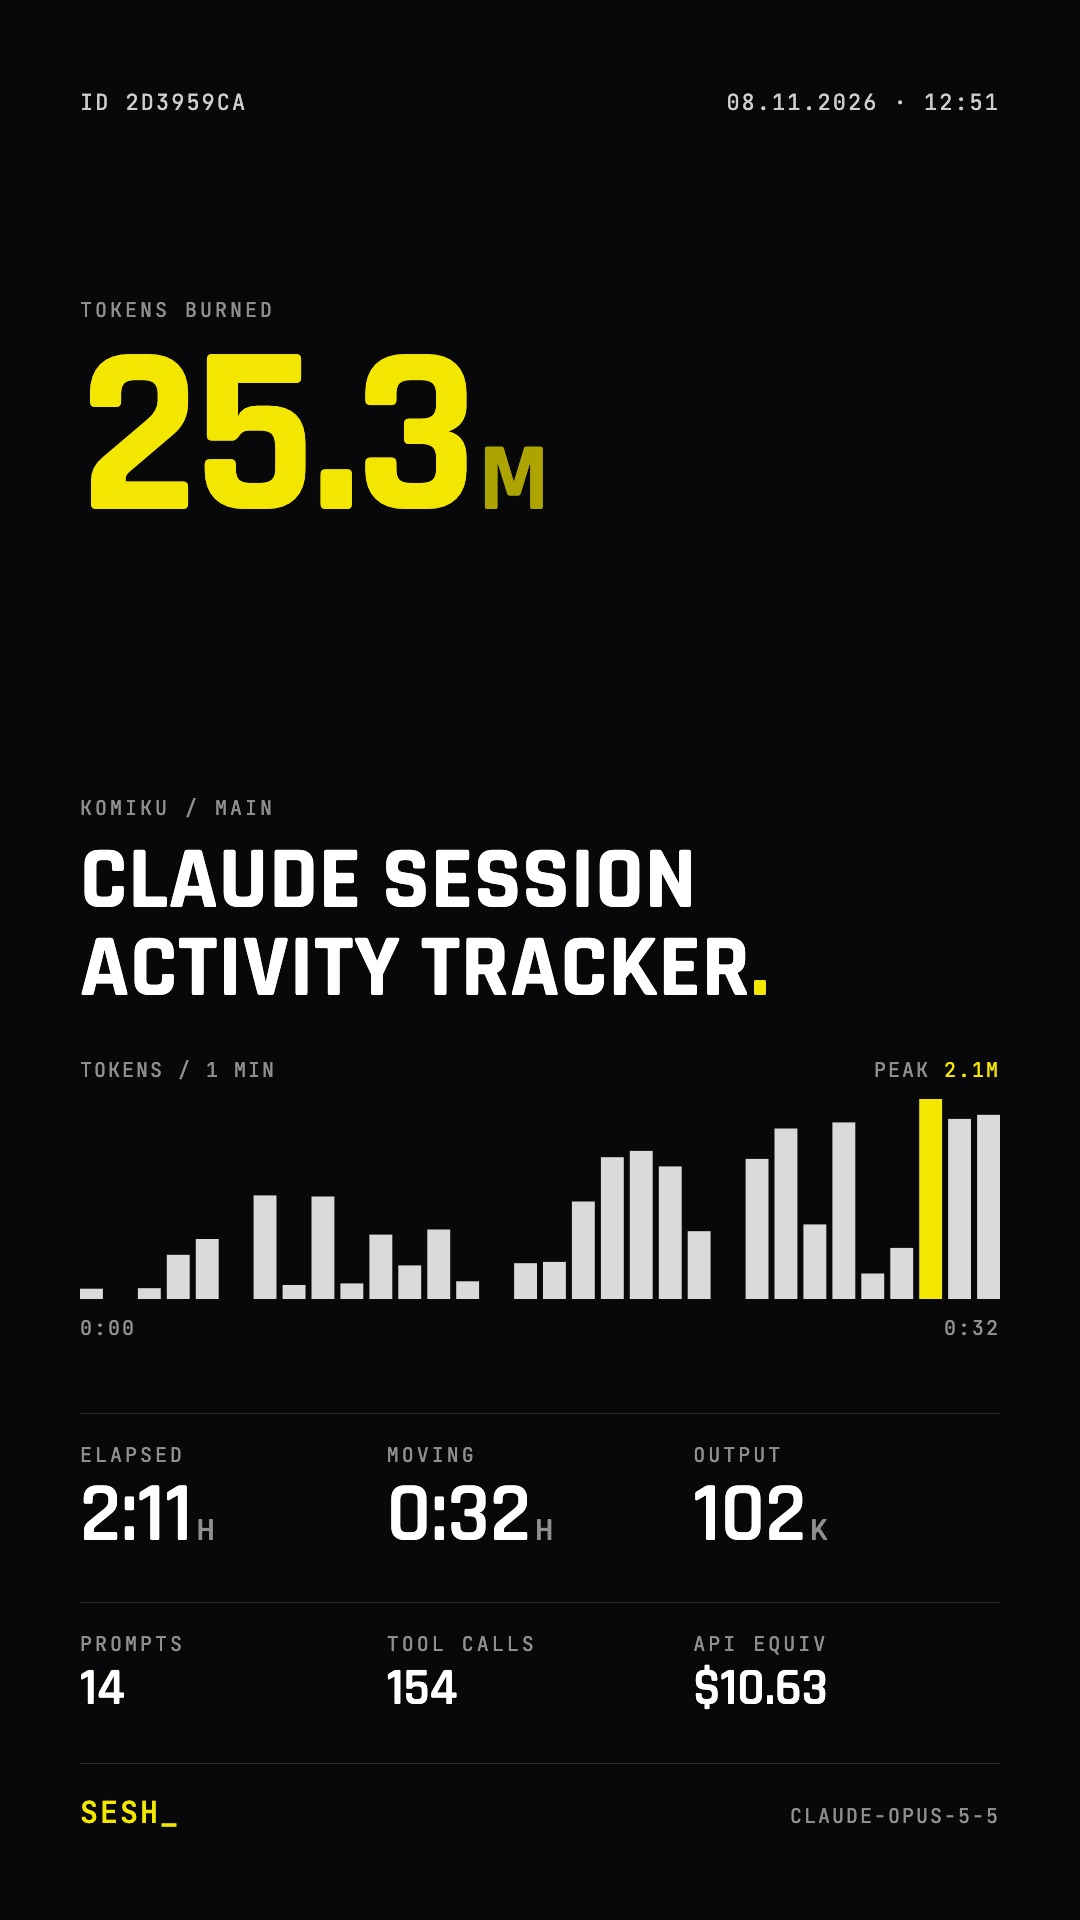
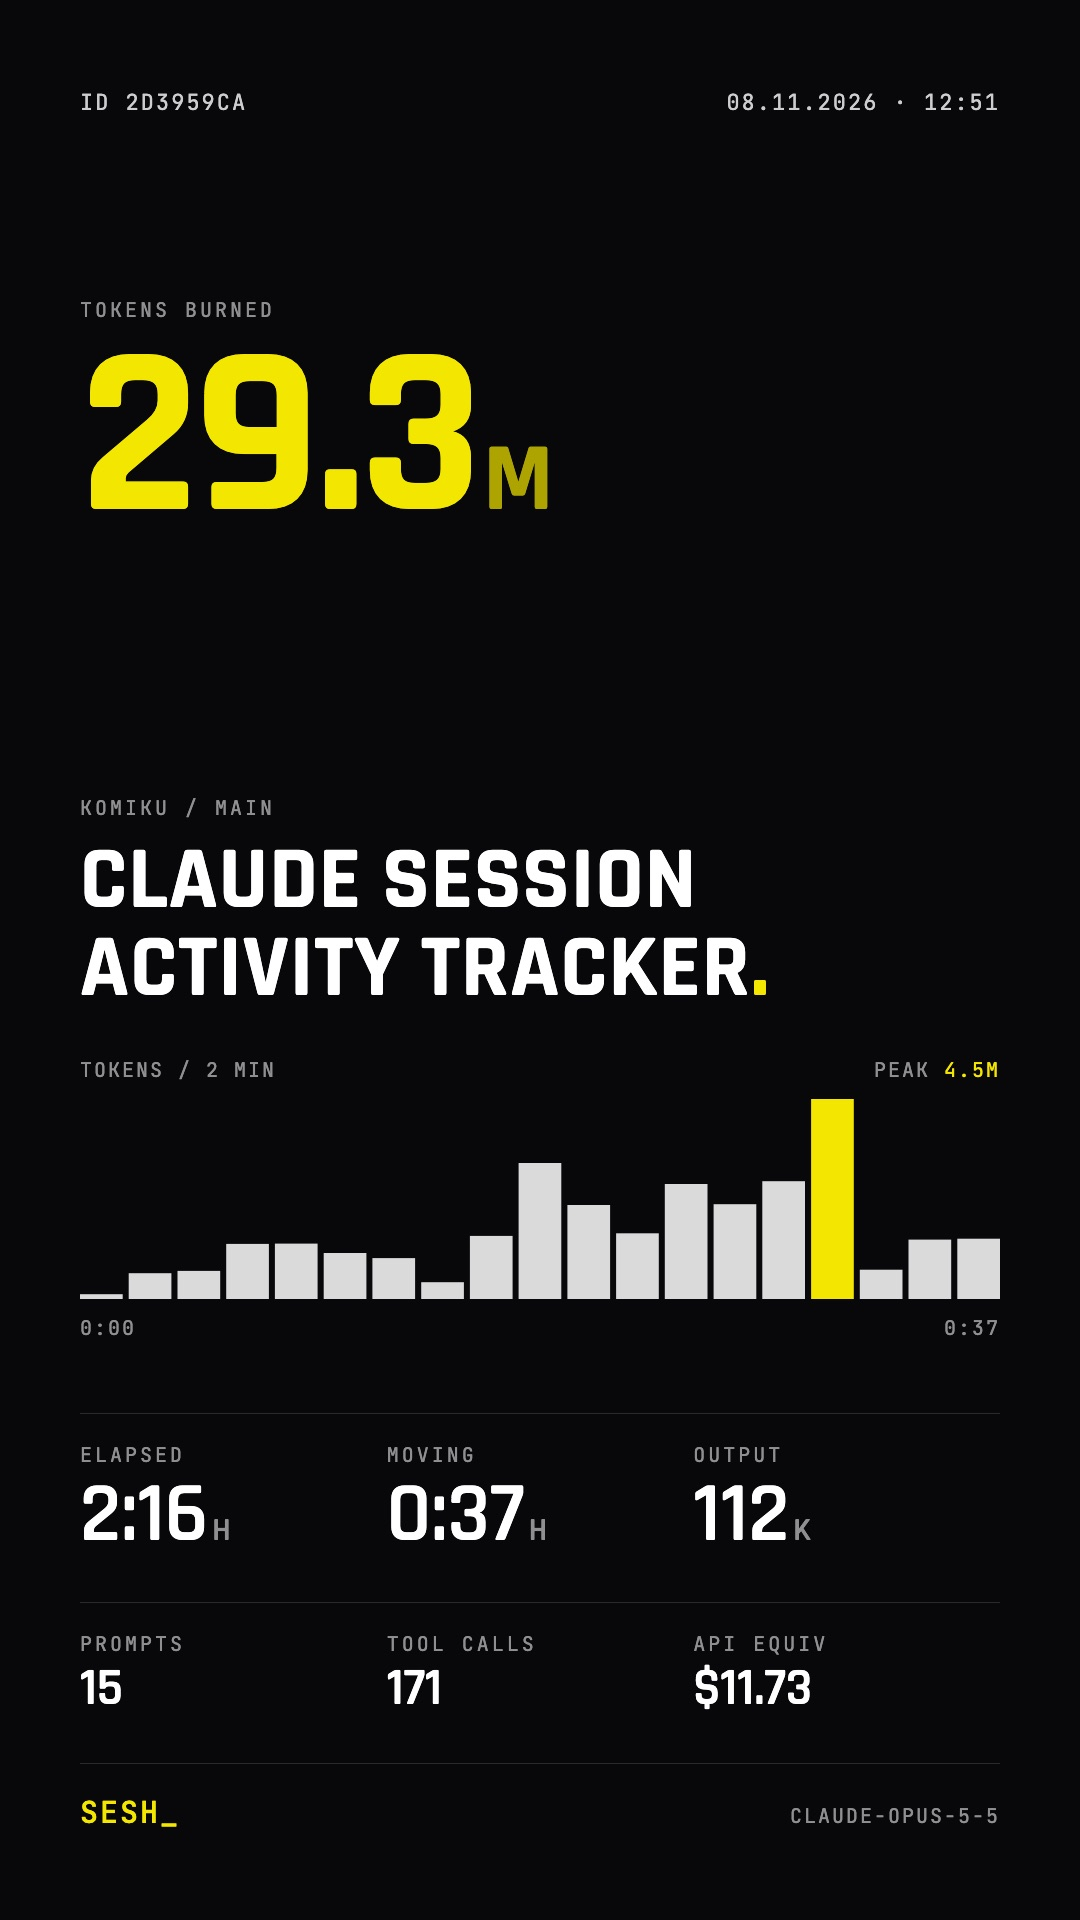
feat: attach a photo to /sesh:sesh and it becomes the background
- Read the image attached to the prompt that ran sesh straight from the
  transcript (Claude Code and Codex), no file path needed
- Handle Claude Code moving the image into the slash command's meta message
- Add --no-photo; --photo still overrides
- README: one-step usage, flags moved under an advanced section, new samples

diff --git a/README.md b/README.md
@@ -17,10 +17,10 @@
 ## `> BOOT`
 
 ```text
-$ /sesh --photo ~/desk.jpg
+> /sesh:sesh   [image attached]
 
 sesh  Claude session activity tracker
-      25.3M tokens · 0:32 moving · 14 prompts · 154 tool calls · $10.63 API equiv · claude-opus-5-5
+      29.3M tokens · 0:37 moving · 15 prompts · 171 tool calls · $11.73 API equiv · claude-opus-5-5
 card  ~/sesh/20261108-2d3959ca.png
 ```
 
@@ -66,24 +66,36 @@ If no browser is found, `sesh` saves the card as HTML and tells you. Point it at
 
 ## `> RUN`
 
-| Where | Command |
-|---|---|
-| Claude Code | `/sesh` |
-| Claude Code with photo | `/sesh --photo ~/Pictures/desk.jpg` |
-| Codex | ask: *"sesh this session"* |
-| Terminal | `sesh --agent claude` or `sesh --agent codex` |
+Type the command. Attach a photo if you want one. That is it.
 
-### Flags
+| Agent | Do this |
+|---|---|
+| Claude Code | type `/sesh:sesh`, optionally attach or paste an image in the same message |
+| Codex | ask *"sesh this session"*, optionally with an image attached |
+
+- **With an image:** it becomes the card background.
+- **Without one:** you get the plain dark card with the token count as the hero.
+- The PNG is saved to `~/sesh/` and shown in the chat.
+
+<details>
+<summary>Terminal and advanced flags</summary>
+
+```bash
+npx github:Adefebrian/sesh --agent claude
+```
 
 | Flag | Default | Description |
 |---|---|---|
 | `--agent <claude\|codex>` | auto | Which transcript to read |
-| `--session <id\|path>` | current folder's latest | A session id or a `.jsonl` transcript path |
-| `--photo <path>` | none | Background photo: jpg, png or webp |
+| `--session <id\|path>` | current session | A session id or a `.jsonl` transcript path |
+| `--photo <path>` | attached image | Background photo file: jpg, png or webp |
+| `--no-photo` | off | Ignore an attached image |
 | `--out <file.png>` | `~/sesh/<date>-<id>.png` | Where to write the card |
 | `--cwd <dir>` | current directory | Project folder to look up |
 | `--html` | off | Keep the HTML next to the PNG |
 | `--json` | off | Print parsed stats as JSON and exit |
+
+</details>
 
 ## `> TELEMETRY`
 
@@ -135,6 +147,6 @@ The card shows the project folder name, git branch, session title and model. Che
 
 ## `> LICENSE`
 
-MIT © Ade Febrian. Sample background photo from [Unsplash](https://unsplash.com) (Unsplash License).
+MIT © Ade Febrian.
 
 <div align="center"><sub><code>SESH_</code> · end of transmission</sub></div>

diff --git a/commands/sesh.md b/commands/sesh.md
@@ -1,6 +1,5 @@
 ---
-description: Render this session as a 1080x1920 story card (tokens, moving time, prompts, tool calls)
-argument-hint: "[--photo path] [--session id] [--out file.png]"
+description: Turn this session into a story card. Attach a photo to use it as the background.
 allowed-tools: Bash(node:*)
 ---
 
@@ -10,4 +9,6 @@ Run:
 node "${CLAUDE_PLUGIN_ROOT}/skills/sesh/scripts/sesh.mjs" --agent claude --session "${CLAUDE_SESSION_ID}" $ARGUMENTS
 ```
 
-Then report the summary line and the PNG path from the `card` line. Do not add numbers that the command did not print. If it reports no browser, tell the user to install Chrome, Chromium or Edge, or set `SESH_BROWSER`.
+An image the user attached to this message is picked up automatically as the background. Do not pass a photo yourself.
+
+Then report the summary line and the PNG path from the `card` line, and show the image if you can. Do not add numbers that the command did not print. If it reports no browser, tell the user to install Chrome, Chromium or Edge, or set `SESH_BROWSER`.

diff --git a/skills/sesh/SKILL.md b/skills/sesh/SKILL.md
@@ -17,7 +17,7 @@ node "<this skill folder>/scripts/sesh.mjs" --agent <claude|codex>
 
 - In Claude Code pass `--agent claude`. In Codex pass `--agent codex`.
 - With no `--session`, sesh picks the newest session recorded for the current folder, which is the one running now.
-- Add `--photo <path>` only when the user gives a photo. Without one, sesh renders the plain dark card.
+- An image the user attached to their latest message is used as the background automatically. Do not pass `--photo` unless the user gives a file path.
 - Pass through any other flags the user asks for: `--session <id|path>`, `--out <file.png>`, `--html`, `--json`.
 
 ## After it runs
